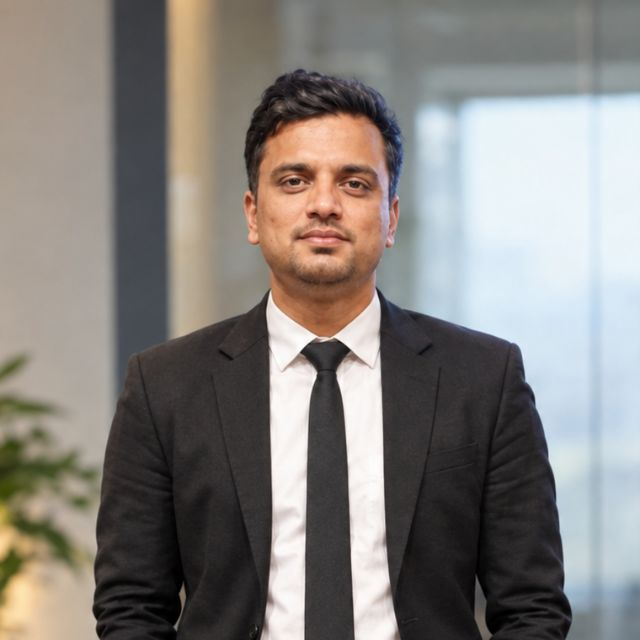
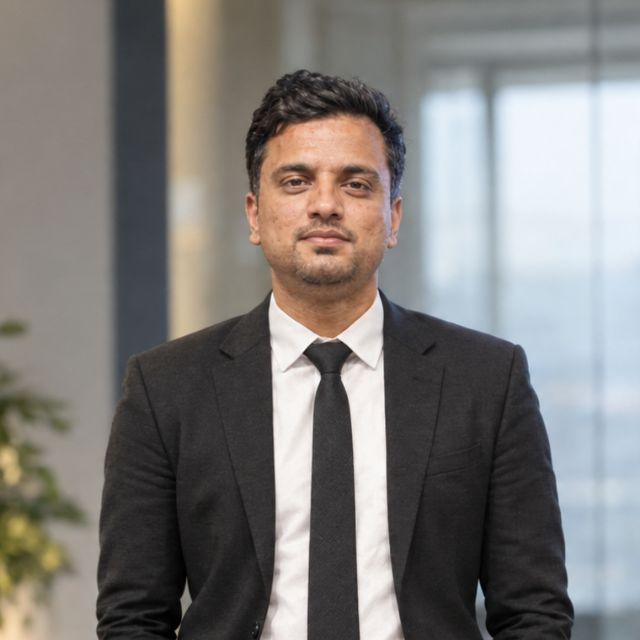
Use final founder photo

diff --git a/index.html b/index.html
@@ -11,7 +11,7 @@
   <meta property="og:url" content="https://agamsahu017.github.io/" />
   <meta property="og:title" content="Kodivo | AI chatbots, websites &amp; software · Delhi NCR &amp; Lucknow" />
   <meta property="og:description" content="AI-first software studio by Agam Sahu (8+ yrs). AI chatbots, WhatsApp automation, business software and websites. Launch offer for the first 10 clients." />
-  <meta property="og:image" content="https://agamsahu017.github.io/assets/og-image.jpg?v=2" />
+  <meta property="og:image" content="https://agamsahu017.github.io/assets/og-image.jpg?v=3" />
   <meta property="og:image:width" content="1200" />
   <meta property="og:image:height" content="630" />
   <meta property="og:image:alt" content="Kodivo: AI chatbots, websites and smart software, by founder Agam Sahu" />
@@ -33,7 +33,7 @@
     "description": "AI-first software studio building AI chatbots, automation, business software and websites.",
     "founder": { "@type": "Person", "name": "Agam Sahu", "jobTitle": "Founder" },
     "url": "https://agamsahu017.github.io/",
-    "image": "https://agamsahu017.github.io/assets/og-image.jpg?v=2",
+    "image": "https://agamsahu017.github.io/assets/og-image.jpg?v=3",
     "telephone": "+91-9235266579",
     "email": "agamsahu015@gmail.com",
     "address": { "@type": "PostalAddress", "addressLocality": "Lucknow", "addressRegion": "Uttar Pradesh", "addressCountry": "IN" },

diff --git a/delhi-ncr.html b/delhi-ncr.html
@@ -11,7 +11,7 @@
   <meta property="og:url" content="https://agamsahu017.github.io/delhi-ncr.html" />
   <meta property="og:title" content="AI Chatbot, Website &amp; Software in Delhi NCR | Kodivo" />
   <meta property="og:description" content="AI chatbots, WhatsApp automation, websites and custom software for businesses and startups in Delhi, Noida, Gurugram and Ghaziabad." />
-  <meta property="og:image" content="https://agamsahu017.github.io/assets/og-image.jpg?v=2" />
+  <meta property="og:image" content="https://agamsahu017.github.io/assets/og-image.jpg?v=3" />
   <meta property="og:image:width" content="1200" />
   <meta property="og:image:height" content="630" />
   <meta property="og:image:alt" content="Kodivo: AI chatbots, websites and smart software, by founder Agam Sahu" />
@@ -93,7 +93,7 @@
       "@type": "ProfessionalService",
       "name": "Kodivo",
       "url": "https://agamsahu017.github.io/",
-      "image": "https://agamsahu017.github.io/assets/og-image.jpg?v=2",
+      "image": "https://agamsahu017.github.io/assets/og-image.jpg?v=3",
       "telephone": "+91-9235266579",
       "areaServed": [
         "Delhi",

diff --git a/lucknow.html b/lucknow.html
@@ -11,7 +11,7 @@
   <meta property="og:url" content="https://agamsahu017.github.io/lucknow.html" />
   <meta property="og:title" content="Website &amp; AI Chatbot Developer in Lucknow | Kodivo" />
   <meta property="og:description" content="Websites, AI chatbots, WhatsApp automation and custom software for Lucknow businesses. Meet in person in Lucknow. Free consultation." />
-  <meta property="og:image" content="https://agamsahu017.github.io/assets/og-image.jpg?v=2" />
+  <meta property="og:image" content="https://agamsahu017.github.io/assets/og-image.jpg?v=3" />
   <meta property="og:image:width" content="1200" />
   <meta property="og:image:height" content="630" />
   <meta property="og:image:alt" content="Kodivo: AI chatbots, websites and smart software, by founder Agam Sahu" />
@@ -93,7 +93,7 @@
       "@type": "ProfessionalService",
       "name": "Kodivo",
       "url": "https://agamsahu017.github.io/",
-      "image": "https://agamsahu017.github.io/assets/og-image.jpg?v=2",
+      "image": "https://agamsahu017.github.io/assets/og-image.jpg?v=3",
       "telephone": "+91-9235266579",
       "areaServed": [
         "Lucknow",

diff --git a/ai-chatbot-whatsapp-automation.html b/ai-chatbot-whatsapp-automation.html
@@ -11,7 +11,7 @@
   <meta property="og:url" content="https://agamsahu017.github.io/ai-chatbot-whatsapp-automation.html" />
   <meta property="og:title" content="AI Chatbot &amp; WhatsApp Automation for Businesses | Kodivo" />
   <meta property="og:description" content="An AI assistant that answers customers 24×7 in Hindi &amp; English, books appointments and captures leads on your website and WhatsApp. Try the demo." />
-  <meta property="og:image" content="https://agamsahu017.github.io/assets/og-image.jpg?v=2" />
+  <meta property="og:image" content="https://agamsahu017.github.io/assets/og-image.jpg?v=3" />
   <meta property="og:image:width" content="1200" />
   <meta property="og:image:height" content="630" />
   <meta property="og:image:alt" content="Kodivo: AI chatbots, websites and smart software, by founder Agam Sahu" />

diff --git a/website-development.html b/website-development.html
@@ -11,7 +11,7 @@
   <meta property="og:url" content="https://agamsahu017.github.io/website-development.html" />
   <meta property="og:title" content="Website Development for Small Businesses | Kodivo" />
   <meta property="og:description" content="Fast, mobile-friendly business websites with Google SEO and WhatsApp booking. From ₹2,999 (launch offer). Delhi NCR &amp; Lucknow, ready in 5–7 days." />
-  <meta property="og:image" content="https://agamsahu017.github.io/assets/og-image.jpg?v=2" />
+  <meta property="og:image" content="https://agamsahu017.github.io/assets/og-image.jpg?v=3" />
   <meta property="og:image:width" content="1200" />
   <meta property="og:image:height" content="630" />
   <meta property="og:image:alt" content="Kodivo: AI chatbots, websites and smart software, by founder Agam Sahu" />

diff --git a/academy.html b/academy.html
@@ -11,7 +11,7 @@
   <meta property="og:url" content="https://agamsahu017.github.io/academy.html" />
   <meta property="og:title" content="Kodivo Academy | Learn Full Stack + AI from a Senior Engineer" />
   <meta property="og:description" content="1:1 mentoring, interview prep, weekend batches and a FREE live session on becoming a developer in the AI era. For students and 0–3 yr developers." />
-  <meta property="og:image" content="https://agamsahu017.github.io/assets/og-image.jpg?v=2" />
+  <meta property="og:image" content="https://agamsahu017.github.io/assets/og-image.jpg?v=3" />
   <meta property="og:image:width" content="1200" />
   <meta property="og:image:height" content="630" />
   <meta property="og:image:alt" content="Kodivo: AI chatbots, websites and smart software, by founder Agam Sahu" />

diff --git a/demo.html b/demo.html
@@ -11,7 +11,7 @@
   <meta property="og:url" content="https://agamsahu017.github.io/demo.html" />
   <meta property="og:title" content="Try our AI Chatbot Demo | Kodivo" />
   <meta property="og:description" content="Chat with a sample AI receptionist for a clinic, coaching institute or restaurant. Replies in English &amp; Hinglish and captures leads 24×7." />
-  <meta property="og:image" content="https://agamsahu017.github.io/assets/og-image.jpg?v=2" />
+  <meta property="og:image" content="https://agamsahu017.github.io/assets/og-image.jpg?v=3" />
   <meta property="og:image:width" content="1200" />
   <meta property="og:image:height" content="630" />
   <meta property="og:image:alt" content="Kodivo: AI chatbots, websites and smart software, by founder Agam Sahu" />

diff --git a/privacy.html b/privacy.html
@@ -11,7 +11,7 @@
   <meta property="og:url" content="https://agamsahu017.github.io/privacy.html" />
   <meta property="og:title" content="Privacy Policy | Kodivo" />
   <meta property="og:description" content="How Kodivo collects, uses and protects your information." />
-  <meta property="og:image" content="https://agamsahu017.github.io/assets/og-image.jpg?v=2" />
+  <meta property="og:image" content="https://agamsahu017.github.io/assets/og-image.jpg?v=3" />
   <meta property="og:image:width" content="1200" />
   <meta property="og:image:height" content="630" />
   <meta property="og:image:alt" content="Kodivo: AI chatbots, websites and smart software, by founder Agam Sahu" />
